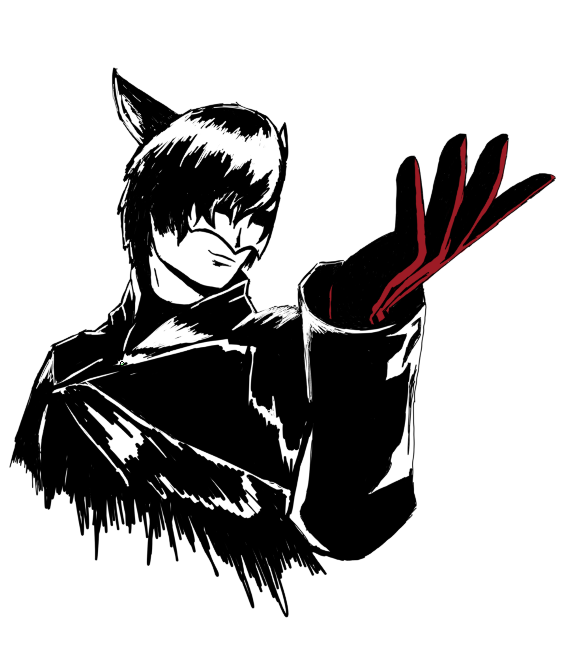
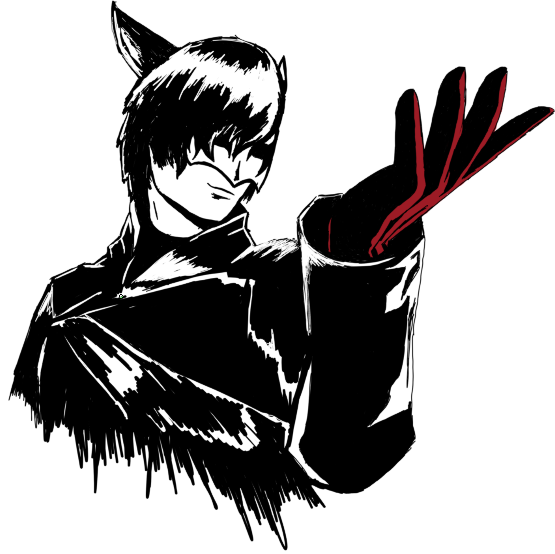
Aligned grid items center

Changed region(s): [[0.0, 0.0, 1.0, 1.0]]

diff --git a/index.html b/index.html
@@ -38,14 +38,16 @@
 
         <div class="container">
             <!-- Portrait Section -->
-            <div class="home-text-box portrait">
-                <p>Lorem ipsum dolor, sit amet consectetur adipisicing elit. Tempora aut voluptatibus, cumque
-                    quam
-                    natus
-                    incidunt. Veritatis perferendis nostrum amet modi quibusdam magni? Magnam omnis in commodi
-                    quos
-                    dolorum possimus cumque.
-                </p>
+            <div class="home-box">
+                <div class="home-text-box portrait">
+                    <p>Lorem ipsum dolor, sit amet consectetur adipisicing elit. Tempora aut voluptatibus, cumque
+                        quam
+                        natus
+                        incidunt. Veritatis perferendis nostrum amet modi quibusdam magni? Magnam omnis in commodi
+                        quos
+                        dolorum possimus cumque.
+                    </p>
+                </div>
             </div>
 
             <div class="home-img portrait">
@@ -63,28 +65,32 @@
             </div>
 
             <!-- Group Section -->
-            <div class="home-text-box group">
-                <p>Lorem ipsum dolor, sit amet consectetur adipisicing elit. Tempora aut voluptatibus, cumque
-                    quam
-                    natus
-                    incidunt. Veritatis perferendis nostrum amet modi quibusdam magni? Magnam omnis in commodi
-                    quos
-                    dolorum possimus cumque.
-                </p>
-            </div>
             <div class="home-img group">
                 <img src="img/A-twins.png" alt="Alisaie, Aplhinaud and Edmund group drawing">
             </div>
+            <div class="home-box">
+                <div class="home-text-box group">
+                    <p>Lorem ipsum dolor, sit amet consectetur adipisicing elit. Tempora aut voluptatibus, cumque
+                        quam
+                        natus
+                        incidunt. Veritatis perferendis nostrum amet modi quibusdam magni? Magnam omnis in commodi
+                        quos
+                        dolorum possimus cumque.
+                    </p>
+                </div>
+            </div>
 
             <!-- Sketces Section -->
-            <div class="home-text-box sketches">
-                <p>Lorem ipsum dolor, sit amet consectetur adipisicing elit. Tempora aut voluptatibus, cumque
-                    quam
-                    natus
-                    incidunt. Veritatis perferendis nostrum amet modi quibusdam magni? Magnam omnis in commodi
-                    quos
-                    dolorum possimus cumque.
-                </p>
+            <div class="home-box">
+                <div class="home-text-box sketches">
+                    <p>Lorem ipsum dolor, sit amet consectetur adipisicing elit. Tempora aut voluptatibus, cumque
+                        quam
+                        natus
+                        incidunt. Veritatis perferendis nostrum amet modi quibusdam magni? Magnam omnis in commodi
+                        quos
+                        dolorum possimus cumque.
+                    </p>
+                </div>
             </div>
             <div class="home-img sketches">
                 <img src="/img/Sketch1.png" alt="Sketch drawing">

diff --git a/style.css b/style.css
@@ -81,22 +81,22 @@ To Do
 .container {
     display: grid;
     justify-content: center;
-    grid-template-columns: 500px 500px;
-    grid-template-rows: repeat(3, 400px);
+    grid-template-columns: 550px 550px;
+    grid-template-rows: repeat(3, 500px);
+    overflow: hidden;
 }
 
-.home-img img {
-    width: 50%;
+.home-box,
+.home-img,
+.card-group {
+    display: flex;
+    justify-content: center;
+    align-items: center;
 }
 
 /* Character Portrait */
 
 /* Cards */
-
-.card-group {
-    display: grid;
-    place-items: center;
-}
 
 .card {
     width: 30vmin;
@@ -127,6 +127,10 @@ To Do
     transform: translateX(10%, 3%) rotate(5deg);
 }
 
+.card-group:hover>.card {
+    transition: .5s;
+}
+
 .card-group:hover>.card:nth-child(1) {
     transform: translate(-75%, 16%) rotate(-24deg);
 }
@@ -145,7 +149,7 @@ To Do
 
 /* Card Button */
 .card-btn {
-    margin-top: 8vmin;
+    margin-top: 55vmin;
     display: flex;
 }
 
@@ -160,14 +164,20 @@ To Do
     cursor: pointer;
 }
 
-.home-text-box.portrait {
+/* Home Boxes */
+
+.home-text-box.portrait,
+.home-text-box.group,
+.home-text-box.sketches {
     padding: 24px;
-    max-width: 400px;
+    width: 400px;
     height: 200px;
     border-radius: 10px;
     box-shadow: 0 0 20px 0 rgba(0, 0, 0, 0.4);
-    /* Temp - Remove when fixed */
-    margin-bottom: 92px;
+}
+
+.home-img img {
+    width: 100%;
 }
 
 /* Group Mashup */
